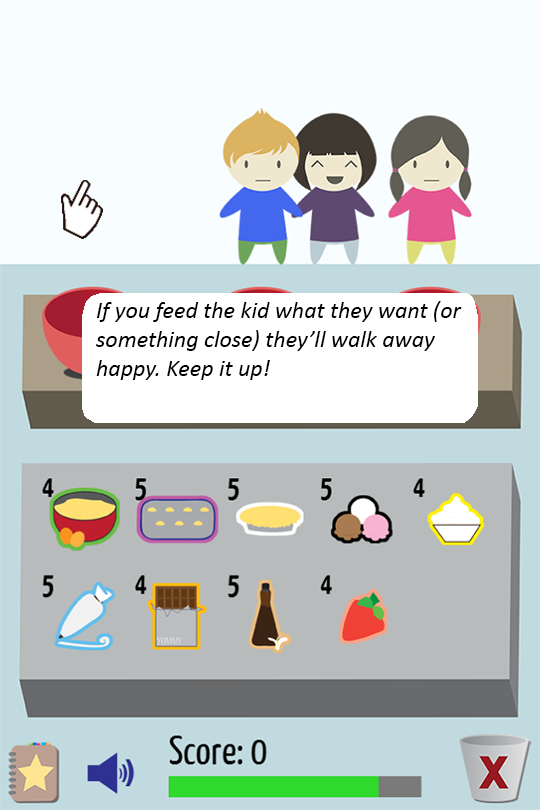
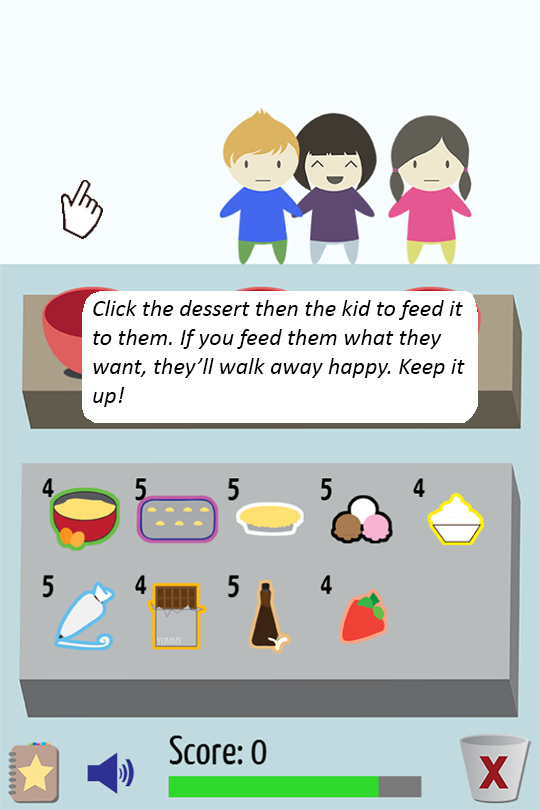
tutorial and mute button everywhere!
fixed tutorial to be more clear on trash and feeding kids. put the mute
button on every screen

Changed region(s): [[0.1778, 0.3704, 0.8593, 0.5247]]

diff --git a/js/RecipeBook.js b/js/RecipeBook.js
@@ -27,12 +27,14 @@ RecipeBookEnter = Class.create(Sprite, {
       this.frame = 0;
       this.x = 10;
       this.y = 880;
+      this.mute = new Mute(100, 880);
       this.recipeScene = new Scene();
    },
 
    ontouchend: function() {
       this.recipeScene.addChild(new RecipeBook());
       this.recipeScene.addChild(new RecipeBookExit());
+      this.recipeScene.addChild(this.mute);
       game.pushScene(this.recipeScene);
    }
 });

diff --git a/js/mute.js b/js/mute.js
@@ -1,11 +1,11 @@
 this.globalVolume = 1; // use to mute sound effects
 
 Mute = Class.create(Sprite, {
-	initialize: function() {
+	initialize: function(x, y) {
 		Sprite.call(this, 60, 72);
 		this.image = game.assets['images/volumebuttons.png'];
-		this.x = 100;
-		this.y = 880;
+		this.x = x;
+		this.y = y;
 		this.frame = game.bgm.volume === maxVolume ? 0 : 1;
 	},
 

diff --git a/js/kid.js b/js/kid.js
@@ -2,7 +2,7 @@
 Kid = Class.create(Sprite, {
    initialize: function(slotX) {
       Sprite.call(this, 119, 200);
-      this.happiness = 700; //100% * duration
+      this.happiness = 800; //100% * duration
       this.tolerance = 1;        //{1, 1/3, 2/3}
       this.currentState = 'WAITING';
       this.states = ['WAITING', 'EXITING', 'ENTERING', 'EATING'];

diff --git a/js/startmenu.js b/js/startmenu.js
@@ -23,9 +23,14 @@ Splash = Class.create(Scene, {
          game.pushScene(new Tutorial());
       });
 
+      // Mute button
+      this.mute = new Mute(540, 880);
+      
+
       this.addChild(background);
       this.addChild(playButton);
       this.addChild(tutorialButton);
+      this.addChild(this.mute);
    },
 });
 

diff --git a/js/shop.js b/js/shop.js
@@ -64,7 +64,7 @@ Shop = Class.create(Scene, {
       this.addChild(currentMoney);
 
       // Mute button
-      this.mute = new Mute();
+      this.mute = new Mute(100, 880);
       this.addChild(this.mute);
 
       // Add recipebook button

diff --git a/js/level.js b/js/level.js
@@ -25,7 +25,7 @@ Level = Class.create(Scene, {
       this.addChild(this.score);
 
       // Mute button
-      this.mute = new Mute();
+      this.mute = new Mute(100, 880);
       this.addChild(this.mute);
 
       // Add ingredients
